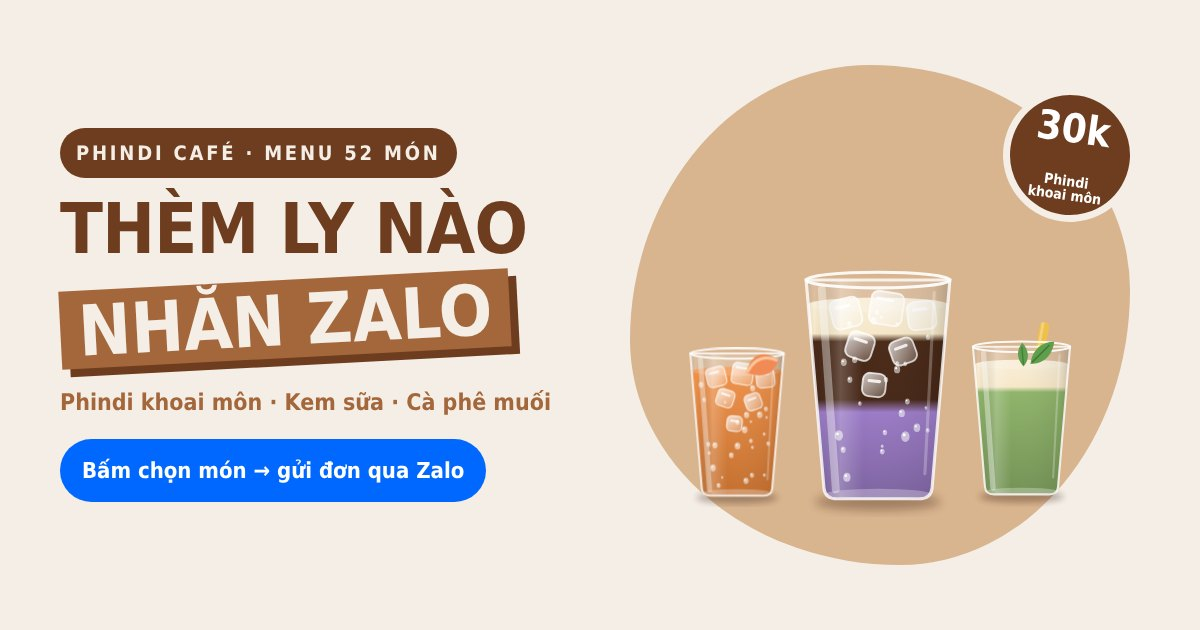
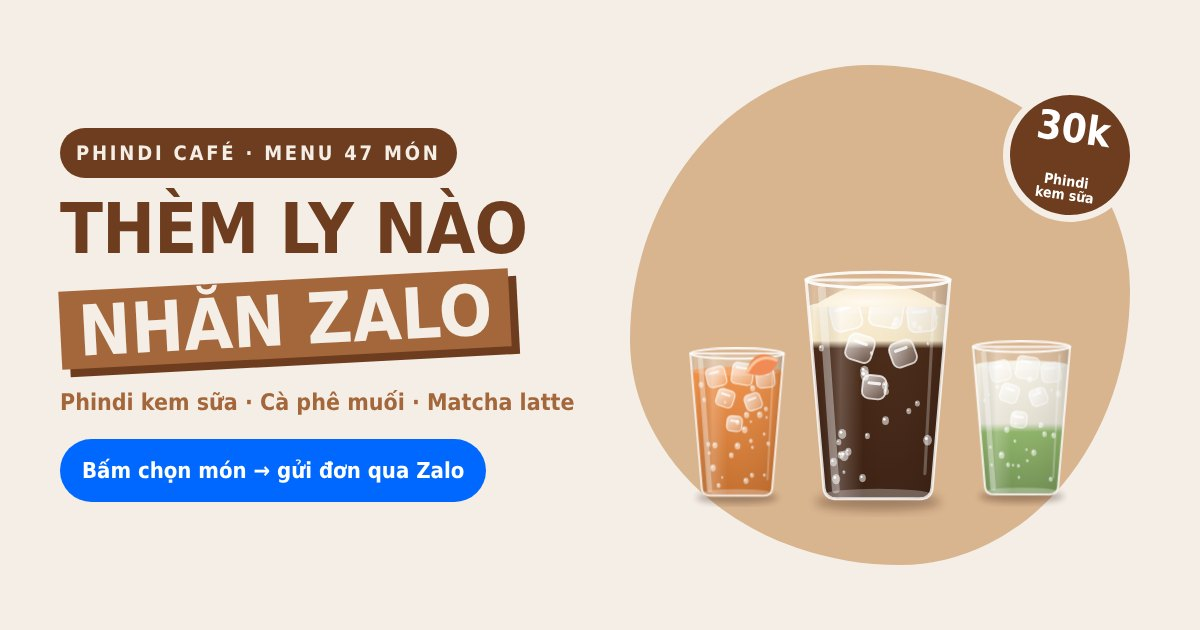
Phindi: bỏ 6 món, thêm Matcha latte, ghi chú sinh tố bơ theo mùa, kết nối Zalo 0393315295
Claude-Session: https://claude.ai/code/session_01U4UHKD9A2E5CzojSNta4Zq

diff --git a/demo/phindi-25b4dd/index.html b/demo/phindi-25b4dd/index.html
@@ -1,15 +1,16 @@
 <!doctype html>
+<!-- Mẫu "Cafe" – Tích Xanh. Không sửa trực tiếp: dựng bằng build_cafe.py + file cấu hình quán. -->
 <html lang="vi">
 <head>
 <meta charset="utf-8">
 <meta name="viewport" content="width=device-width, initial-scale=1, viewport-fit=cover">
 <title>Phindi Café – Menu & đặt món qua Zalo</title>
-<meta name="description" content="52 món cà phê phin, trà, trà sữa, sinh tố, đá xay. Bấm chọn món, gửi cả đơn qua Zalo trong 30 giây.">
+<meta name="description" content="47 món cà phê phin, trà, trà sữa, sinh tố, đá xay. Bấm chọn món, gửi cả đơn qua Zalo trong 30 giây.">
 <meta name="robots" content="noindex, nofollow">
 <meta name="theme-color" content="#6e3d1f">
 <meta property="og:type" content="website">
 <meta property="og:title" content="Phindi Café – Menu & đặt món qua Zalo">
-<meta property="og:description" content="Phindi khoai môn, kem sữa, cà phê muối và 49 món khác. Chọn món, gửi Zalo, ghé lấy liền.">
+<meta property="og:description" content="Phindi kem sữa, cà phê muối, matcha latte và 44 món khác. Chọn món, gửi Zalo, ghé lấy liền.">
 <meta property="og:image" content="https://tichxanh.github.io/demo/phindi-25b4dd/og.jpg">
 <meta property="og:image:width" content="1200">
 <meta property="og:image:height" content="630">
@@ -327,7 +328,7 @@ footer .logo small{color:#c9ab8e}
   <symbol id="leaf" viewBox="0 0 40 40"><path d="M6 34C8 16 20 6 36 6 34 22 24 34 6 34z" fill="#5f9e4c"/><path d="M8 32 30 10" stroke="#3f7a35" stroke-width="2"/></symbol>
 </svg>
 
-<div class="demobar"><div class="wrap">Bản xem thử gửi quán Phindi duyệt. <a href="https://tichxanh.github.io/" target="_blank" rel="noopener">Thiết kế bởi Tích Xanh →</a></div></div>
+<div class="demobar"><div class="wrap">Bản chạy thử: đặt món đã kết nối Zalo của quán. <a href="https://tichxanh.github.io/" target="_blank" rel="noopener">Thiết kế bởi Tích Xanh →</a></div></div>
 
 <header class="nav" id="nav">
   <div class="wrap nav-in">
@@ -342,7 +343,7 @@ footer .logo small{color:#c9ab8e}
   <div class="wrap">
     <div class="hero-copy">
       <h1><span class="stk">Good mood</span><span class="l1">Thèm ly nào</span><span class="box">nhắn Zalo</span><span class="sm">Phindi pha liền tay</span></h1>
-      <p class="hero-lead"><b>52 món</b> cà phê phin, trà, trà sữa, sinh tố, đá xay. Bấm <b>+</b> chọn món, gửi cả đơn qua Zalo <b>trong 30 giây</b>.</p>
+      <p class="hero-lead"><b>47 món</b> cà phê phin, trà, trà sữa, sinh tố, đá xay. Bấm <b>+</b> chọn món, gửi cả đơn qua Zalo <b>trong 30 giây</b>.</p>
       <div class="hero-ctas">
         <a class="btn btn-p" href="#menu">Xem menu &amp; chọn món</a>
         <button class="btn btn-o" type="button" data-ch="zalo"><span class="zl">Zalo</span>Nhắn quán ngay</button>
@@ -356,7 +357,7 @@ footer .logo small{color:#c9ab8e}
       <svg class="bean" style="left:10%;top:18%;transform:rotate(-30deg)"><use href="#bean"/></svg>
       <svg class="bean" style="left:26%;top:6%;width:24px;transform:rotate(40deg)"><use href="#bean"/></svg>
       <svg class="bean" style="right:24%;bottom:6%;width:28px;transform:rotate(70deg)"><use href="#bean"/></svg>
-      <span class="price"><b>30k</b><small>Phindi<br>khoai môn</small></span>
+      <span class="price"><b>30k</b><small>Phindi<br>kem sữa</small></span>
     </div>
   </div>
 </section>
@@ -438,7 +439,7 @@ footer .logo small{color:#c9ab8e}
 <div class="dlg" id="msgDlg" hidden>
   <div class="card-s" role="dialog" aria-modal="true" aria-labelledby="mTitle">
     <h3 id="mTitle">Tin nhắn gửi quán</h3>
-    <p id="mSub">Bản xem thử: khi quán duyệt, nút này mở thẳng Zalo của Phindi với nội dung dưới đây.</p>
+    <p id="mSub">Bản xem thử: khi quán duyệt, nút này mở thẳng Zalo của quán với nội dung dưới đây.</p>
     <div class="msgbox" id="msgTxt" style="width:100%;text-align:left"></div>
     <button class="btn btn-p" type="button" id="mCopy">Chép tin nhắn</button>
     <button class="btn btn-o" type="button" data-close>Đóng</button>
@@ -458,13 +459,87 @@ footer .logo small{color:#c9ab8e}
 <script src="https://cdnjs.cloudflare.com/ajax/libs/qrcodejs/1.0.0/qrcode.min.js"></script>
 <script>
 (() => {
-/* ===== Cấu hình — điền khi quán duyệt =====
-   Hotline Zalo in trên menu: 0393 315 295 → zalo: 'https://zalo.me/0393315295'
-   PHOTOS: ảnh thật của quán, đặt file vào thư mục img/ rồi ghi 'Tên món': 'img/ten-file.jpg' */
-const CONTACT = { zalo: '' };
+/* ===== CẤU HÌNH QUÁN – mẫu "Cafe" (Tích Xanh) =====
+   SHOP: tên quán trong tin nhắn Zalo. CONTACT.zalo: 'https://zalo.me/<số>' (để trống = chế độ xem thử, không gửi tới số thật).
+   PHOTOS: ảnh thật của quán, 'Tên món': 'img/ten-file.jpg' (không dùng ảnh mạng của quán khác).
+   Ly vẽ: {L:[[màu,tỉ lệ],...] từ đáy lên, f: màu kem/bọt, dome:1 kem chóp, ice:1 đá, pearl:1 trân châu,
+           hot:1 khói, straw:'#màu' ống hút, g:'lemon'|'peach'|'mint'|'bean' trang trí} */
+const SHOP = 'Phindi';
+const STORE_KEY = 'phindi-order';
+const CONTACT = { zalo: 'https://zalo.me/0393315295' }; // Hotline Zalo in trên menu: 0393 315 295
 const PHOTOS = {
-  // 'Phindi khoai môn': 'img/phindi-khoai-mon.jpg',
+  // 'Phindi kem sữa': 'img/phindi-kem-sua.jpg',
 };
+const HERO = ['Phindi kem sữa', 'Trà đào cam sả', 'Matcha latte'];   // [ly giữa, trái, phải] – tên đúng như trong CATS
+const CTA_CUPS = ['Trà chanh', 'Cà phê muối', 'Trà sữa socola'];
+const RIBBON = ['Phindi kem sữa','Cà phê muối','Matcha latte','Bạc xỉu','Trà đào cam sả','Trà sữa','Sinh tố bơ','Matcha đá xay'];
+const BEST = [ // 4 món bán chạy: [tên món, nhãn, mô tả ngắn]
+  ['Phindi kem sữa', 'Món tên quán', 'Lớp kem sữa béo mịn phủ trên ly phin đá.'],
+  ['Cà phê muối', 'Đậm vị', 'Kem muối mằn mặn, cà phê thơm đậm.'],
+  ['Trà đào cam sả', 'Mát lạnh', 'Trà đào thơm cam sả, uống nóng hoặc đá.'],
+  ['Matcha latte', 'Món mới', 'Matcha xanh thơm hòa cùng sữa béo, uống đá mát lạnh.']];
+/* MENU: C = bảng màu; CATS = nhóm {id, name, items:[[tên, giá (nghìn), ly, ghi chú]], topping?:[[tên, giá]]}
+   (các trường b, bc, card, n, note của nhóm là tùy chọn, mẫu Cafe không dùng) */
+const C = {coffee:'#4a2a18', coffeeL:'#8a5634', milk:'#f2e6d4', cream:'#f6e7c8', taro:'#9b7bc6', taroL:'#c9b3e6', blue:'#7b5aa6', peach:'#f4a261', lemon:'#f3d36b', mango:'#f7b733', avo:'#b5c96b', soursop:'#eef1d8', yog:'#f7f3ea', orange:'#f7941d', carrot:'#f26b21', passion:'#f2c14e', pine:'#f7d038', guava:'#f6a6a0', matcha:'#8fb46a', choco:'#6b3a22'};
+const CATS = [
+  {id:'phin', n:'01', name:'Cà phê phin', note:'Phin truyền thống pha tay, đậm đà kiểu Việt.', b:'#8f5236', bc:'#fbefd9', card:'rgba(251,239,217,.10)', card2:'rgba(251,239,217,.18)', items:[
+    ['Phindi kem sữa',30,{L:[[C.coffee,.6]],f:C.cream,ice:1,dome:1},'Món tên quán'],
+    ['Cà phê muối',25,{L:[[C.coffee,.55]],f:'#efe0c2',ice:1}],
+    ['Sữa chua cà phê',35,{L:[[C.yog,.45],[C.coffee,.3]]}],
+    ['Bạc xỉu',25,{L:[[C.milk,.5],['#a87650',.25]],ice:1}],
+    ['Nâu phin',20,{L:[[C.coffeeL,.75]],ice:1}],
+    ['Đen phin',18,{L:[['#2b1a10',.75]],ice:1}],
+    ['Nâu xóc',22,{L:[['#9a6440',.6]],f:'#d9b48c'}],
+    ['Đen xóc',20,{L:[['#3a2416',.6]],f:'#8a5e3c'}]]},
+  {id:'may', n:'02', name:'Cà phê máy', note:'Espresso xay mới, uống liền hay mang đi đều hợp.', b:'#5a3220', bc:'#fbefd9', card:'rgba(251,239,217,.09)', card2:'rgba(251,239,217,.16)', items:[
+    ['Nâu xay',20,{L:[[C.coffeeL,.75]],ice:1}],
+    ['Đen xay',18,{L:[['#2b1a10',.75]],ice:1}],
+    ['Nâu xay xóc',22,{L:[['#9a6440',.6]],f:'#d9b48c'}],
+    ['Đen xay xóc',20,{L:[['#3a2416',.6]],f:'#8a5e3c'}],
+    ['Americano',25,{L:[['#3d2414',.75]],ice:1}]]},
+  {id:'tra', n:'03', name:'Trà', note:'Trà trái cây mát lạnh, có món uống nóng cho ngày se lạnh.', b:'#c4572f', bc:'#fff3e4', card:'rgba(255,243,228,.13)', card2:'rgba(255,243,228,.22)', items:[
+    ['Trà gừng mật ong','25',{L:[['#d9a441',.7]],hot:1},'Nóng'],
+    ['Trà tắc xí muội',25,{L:[['#e8a33a',.72]],ice:1,g:'lemon'}],
+    ['Trà đào cam sả',30,{L:[['#f08a3c',.72]],ice:1,g:'peach'},'Nóng / đá'],
+    ['Trà đào',25,{L:[[C.peach,.72]],ice:1,g:'peach'},'Nóng / đá'],
+    ['Trà chanh',25,{L:[[C.lemon,.72]],ice:1,g:'lemon'},'Nóng / đá'],
+    ['Trà chanh việt quất',25,{L:[[C.blue,.35],[C.lemon,.38]],ice:1,g:'lemon'}]]},
+  {id:'trasua', n:'04', name:'Trà sữa', note:'Trà sữa nhà làm, thêm trân châu hay kem tùy thích.', b:'#eaa8b6', bc:'#24402f', card:'rgba(36,64,47,.08)', card2:'rgba(36,64,47,.14)', items:[
+    ['Trà sữa truyền thống',25,{L:[['#c89f73',.78]],pearl:1,straw:'#2f4a3a'}],
+    ['Trà sữa việt quất',25,{L:[['#9d7fc4',.78]],pearl:1,straw:'#2f4a3a'}],
+    ['Trà sữa socola',25,{L:[['#7a4a32',.78]],pearl:1,straw:'#2f4a3a'}],
+    ['Trà sữa matcha',25,{L:[[C.matcha,.78]],pearl:1,straw:'#2f4a3a'}]], topping:[['Trân châu trắng',5],['Kem muối',5],['Kem sữa',5]]},
+  {id:'sinhto', n:'05', name:'Sinh tố', note:'Trái cây xay mịn, sánh và thơm.', b:'#efc14a', bc:'#4a2a18', card:'rgba(74,42,24,.08)', card2:'rgba(74,42,24,.14)', items:[
+    ['Sinh tố mãng cầu',30,{L:[[C.soursop,.8]],straw:'#8f5236'}],
+    ['Sinh tố bơ',30,{L:[[C.avo,.8]],straw:'#8f5236'},'(theo mùa)'],
+    ['Sinh tố bơ mãng cầu',35,{L:[[C.avo,.4],[C.soursop,.4]],straw:'#8f5236'},'(theo mùa)'],
+    ['Sinh tố xoài',30,{L:[[C.mango,.8]],straw:'#8f5236'}],
+    ['Sinh tố xoài dứa',35,{L:[[C.mango,.4],[C.pine,.4]],straw:'#8f5236'}],
+    ['Sinh tố việt quất',30,{L:[[C.blue,.8]],straw:'#8f5236'}]]},
+  {id:'suachua', n:'06', name:'Sữa chua', note:'Sữa chua dẻo chua nhẹ, trộn trái cây.', b:'#f3ead9', bc:'#4a2a18', card:'rgba(74,42,24,.06)', card2:'rgba(74,42,24,.11)', items:[
+    ['Sữa chua việt quất',30,{L:[[C.yog,.42],[C.blue,.36]]}],
+    ['Sữa chua chanh dây',30,{L:[[C.yog,.42],[C.passion,.36]]}],
+    ['Sữa chua đánh đá',27,{L:[[C.yog,.8]],ice:1}]]},
+  {id:'nuocep', n:'07', name:'Nước ép', note:'Ép tươi tại quán, chọn thêm sữa hoặc đường.', b:'#e07b2c', bc:'#fff3e4', card:'rgba(255,243,228,.13)', card2:'rgba(255,243,228,.22)', items:[
+    ['Ép cam',35,{L:[[C.orange,.8]],g:'lemon'}],
+    ['Ép cam cà rốt',35,{L:[[C.carrot,.4],[C.orange,.4]]}],
+    ['Ép cà rốt',25,{L:[['#f47c2c',.8]]},'Sữa / đường'],
+    ['Ép chanh leo',25,{L:[[C.passion,.8]],g:'mint'},'Sữa / đường'],
+    ['Ép chanh',25,{L:[['#f4e27a',.8]],g:'lemon'},'Nóng / đá'],
+    ['Ép dứa',25,{L:[[C.pine,.8]]}],
+    ['Ép ổi',25,{L:[[C.guava,.8]]}]]},
+  {id:'daxay', n:'08', name:'Đá xay', note:'Mát lạnh, phủ kem, hợp trời nắng.', b:'#4f8a3c', bc:'#fbefd9', card:'rgba(251,239,217,.12)', card2:'rgba(251,239,217,.2)', items:[
+    ['Cà phê đá xay',30,{L:[['#8a5a3c',.62]],f:C.cream,straw:'#efc14a',g:'bean'}],
+    ['Chanh leo tuyết',28,{L:[['#f2d46b',.62]],f:'#fffbe8',straw:'#efc14a'}],
+    ['Chanh tuyết',28,{L:[['#eef2b8',.62]],f:'#ffffff',straw:'#efc14a',g:'lemon'}],
+    ['Matcha đá xay',30,{L:[[C.matcha,.62]],f:C.cream,straw:'#efc14a',g:'mint'}]]},
+  {id:'khac', n:'09', name:'Món khác', note:'Cacao, sữa, matcha latte và nước giải khát.', b:'#2f4a3a', bc:'#fbefd9', card:'rgba(251,239,217,.08)', card2:'rgba(251,239,217,.15)', items:[
+    ['Cacao',30,{L:[[C.choco,.75]],f:'#d9b48c'},'Nóng / đá'],
+    ['Sữa',25,{L:[['#f6f1e6',.78]]},'Nóng / đá'],
+    ['Bò húc',19,{L:[['#f2c230',.78]],ice:1}],
+    ['Matcha latte',30,{L:[[C.matcha,.36],['#f4efe2',.36]],ice:1}]]}
+];
+
 const $ = (s, r = document) => r.querySelector(s);
 const $$ = (s, r = document) => [...r.querySelectorAll(s)];
 const reduce = matchMedia('(prefers-reduced-motion: reduce)').matches;
@@ -544,70 +619,6 @@ function cup(o) {
 }
 const media = (m) => PHOTOS[m.name] ? `<img src="${esc(PHOTOS[m.name])}" alt="${esc(m.name)}" loading="lazy">` + cup(m.cupo) : cup(m.cupo);
 
-const C = {coffee:'#4a2a18', coffeeL:'#8a5634', milk:'#f2e6d4', cream:'#f6e7c8', taro:'#9b7bc6', taroL:'#c9b3e6', blue:'#7b5aa6', peach:'#f4a261', lemon:'#f3d36b', mango:'#f7b733', avo:'#b5c96b', soursop:'#eef1d8', yog:'#f7f3ea', orange:'#f7941d', carrot:'#f26b21', passion:'#f2c14e', pine:'#f7d038', guava:'#f6a6a0', matcha:'#8fb46a', choco:'#6b3a22'};
-const CATS = [
-  {id:'phin', n:'01', name:'Cà phê phin', note:'Phin truyền thống pha tay, đậm đà kiểu Việt.', b:'#8f5236', bc:'#fbefd9', card:'rgba(251,239,217,.10)', card2:'rgba(251,239,217,.18)', items:[
-    ['Phindi khoai môn',30,{L:[[C.taro,.4],[C.coffee,.32]],f:C.cream,ice:1},'Món tên quán'],
-    ['Phindi kem sữa',30,{L:[[C.coffee,.6]],f:C.cream,ice:1,dome:1},'Món tên quán'],
-    ['Cà phê muối',25,{L:[[C.coffee,.55]],f:'#efe0c2',ice:1}],
-    ['Sữa chua cà phê',35,{L:[[C.yog,.45],[C.coffee,.3]]}],
-    ['Bạc xỉu',25,{L:[[C.milk,.5],['#a87650',.25]],ice:1}],
-    ['Nâu phin',20,{L:[[C.coffeeL,.75]],ice:1}],
-    ['Đen phin',18,{L:[['#2b1a10',.75]],ice:1}],
-    ['Nâu xóc',22,{L:[['#9a6440',.6]],f:'#d9b48c'}],
-    ['Đen xóc',20,{L:[['#3a2416',.6]],f:'#8a5e3c'}]]},
-  {id:'may', n:'02', name:'Cà phê máy', note:'Espresso xay mới, uống liền hay mang đi đều hợp.', b:'#5a3220', bc:'#fbefd9', card:'rgba(251,239,217,.09)', card2:'rgba(251,239,217,.16)', items:[
-    ['Nâu xay',20,{L:[[C.coffeeL,.75]],ice:1}],
-    ['Đen xay',18,{L:[['#2b1a10',.75]],ice:1}],
-    ['Nâu xay xóc',22,{L:[['#9a6440',.6]],f:'#d9b48c'}],
-    ['Đen xay xóc',20,{L:[['#3a2416',.6]],f:'#8a5e3c'}],
-    ['Americano',25,{L:[['#3d2414',.75]],ice:1}]]},
-  {id:'tra', n:'03', name:'Trà', note:'Trà trái cây mát lạnh, có món uống nóng cho ngày se lạnh.', b:'#c4572f', bc:'#fff3e4', card:'rgba(255,243,228,.13)', card2:'rgba(255,243,228,.22)', items:[
-    ['Trà gừng mật ong','25',{L:[['#d9a441',.7]],hot:1},'Nóng'],
-    ['Trà tắc xí muội',25,{L:[['#e8a33a',.72]],ice:1,g:'lemon'}],
-    ['Trà đào cam sả',30,{L:[['#f08a3c',.72]],ice:1,g:'peach'},'Nóng / đá'],
-    ['Trà đào',25,{L:[[C.peach,.72]],ice:1,g:'peach'},'Nóng / đá'],
-    ['Trà chanh',25,{L:[[C.lemon,.72]],ice:1,g:'lemon'},'Nóng / đá'],
-    ['Trà chanh việt quất',25,{L:[[C.blue,.35],[C.lemon,.38]],ice:1,g:'lemon'}]]},
-  {id:'trasua', n:'04', name:'Trà sữa', note:'Trà sữa nhà làm, thêm trân châu hay kem tùy thích.', b:'#eaa8b6', bc:'#24402f', card:'rgba(36,64,47,.08)', card2:'rgba(36,64,47,.14)', items:[
-    ['Trà sữa truyền thống',25,{L:[['#c89f73',.78]],pearl:1,straw:'#2f4a3a'}],
-    ['Trà sữa khoai môn',25,{L:[['#b9a0d8',.78]],pearl:1,straw:'#2f4a3a'}],
-    ['Trà sữa việt quất',25,{L:[['#9d7fc4',.78]],pearl:1,straw:'#2f4a3a'}],
-    ['Trà sữa socola',25,{L:[['#7a4a32',.78]],pearl:1,straw:'#2f4a3a'}],
-    ['Trà sữa matcha',25,{L:[[C.matcha,.78]],pearl:1,straw:'#2f4a3a'}]], topping:[['Trân châu trắng',5],['Kem muối',5],['Kem sữa',5]]},
-  {id:'sinhto', n:'05', name:'Sinh tố', note:'Trái cây xay mịn, sánh và thơm.', b:'#efc14a', bc:'#4a2a18', card:'rgba(74,42,24,.08)', card2:'rgba(74,42,24,.14)', items:[
-    ['Sinh tố mãng cầu',30,{L:[[C.soursop,.8]],straw:'#8f5236'}],
-    ['Sinh tố bơ',30,{L:[[C.avo,.8]],straw:'#8f5236'}],
-    ['Sinh tố bơ mãng cầu',35,{L:[[C.avo,.4],[C.soursop,.4]],straw:'#8f5236'}],
-    ['Sinh tố xoài',30,{L:[[C.mango,.8]],straw:'#8f5236'}],
-    ['Sinh tố xoài dứa',35,{L:[[C.mango,.4],[C.pine,.4]],straw:'#8f5236'}],
-    ['Sinh tố việt quất',30,{L:[[C.blue,.8]],straw:'#8f5236'}]]},
-  {id:'suachua', n:'06', name:'Sữa chua', note:'Sữa chua dẻo chua nhẹ, trộn trái cây.', b:'#f3ead9', bc:'#4a2a18', card:'rgba(74,42,24,.06)', card2:'rgba(74,42,24,.11)', items:[
-    ['Sữa chua khoai môn',30,{L:[[C.yog,.42],[C.taroL,.36]]}],
-    ['Sữa chua việt quất',30,{L:[[C.yog,.42],[C.blue,.36]]}],
-    ['Sữa chua chanh dây',30,{L:[[C.yog,.42],[C.passion,.36]]}],
-    ['Sữa chua đánh đá',27,{L:[[C.yog,.8]],ice:1}]]},
-  {id:'nuocep', n:'07', name:'Nước ép', note:'Ép tươi tại quán, chọn thêm sữa hoặc đường.', b:'#e07b2c', bc:'#fff3e4', card:'rgba(255,243,228,.13)', card2:'rgba(255,243,228,.22)', items:[
-    ['Ép cam',35,{L:[[C.orange,.8]],g:'lemon'}],
-    ['Ép cam cà rốt',35,{L:[[C.carrot,.4],[C.orange,.4]]}],
-    ['Ép cà rốt',25,{L:[['#f47c2c',.8]]},'Sữa / đường'],
-    ['Ép chanh leo',25,{L:[[C.passion,.8]],g:'mint'},'Sữa / đường'],
-    ['Ép chanh',25,{L:[['#f4e27a',.8]],g:'lemon'},'Nóng / đá'],
-    ['Ép dứa',25,{L:[[C.pine,.8]]}],
-    ['Ép ổi',25,{L:[[C.guava,.8]]}]]},
-  {id:'daxay', n:'08', name:'Đá xay', note:'Mát lạnh, phủ kem, hợp trời nắng.', b:'#4f8a3c', bc:'#fbefd9', card:'rgba(251,239,217,.12)', card2:'rgba(251,239,217,.2)', items:[
-    ['Cà phê đá xay',30,{L:[['#8a5a3c',.62]],f:C.cream,straw:'#efc14a',g:'bean'}],
-    ['Chanh leo tuyết',28,{L:[['#f2d46b',.62]],f:'#fffbe8',straw:'#efc14a'}],
-    ['Chanh tuyết',28,{L:[['#eef2b8',.62]],f:'#ffffff',straw:'#efc14a',g:'lemon'}],
-    ['Matcha đá xay',30,{L:[[C.matcha,.62]],f:C.cream,straw:'#efc14a',g:'mint'}]]},
-  {id:'khac', n:'09', name:'Món khác', note:'Cacao, sữa và nước giải khát.', b:'#2f4a3a', bc:'#fbefd9', card:'rgba(251,239,217,.08)', card2:'rgba(251,239,217,.15)', items:[
-    ['Cacao',30,{L:[[C.choco,.75]],f:'#d9b48c'},'Nóng / đá'],
-    ['Sữa',25,{L:[['#f6f1e6',.78]]},'Nóng / đá'],
-    ['Khoáng mặn',15,{L:[['#e3f1f3',.78]],ice:1}],
-    ['Khoáng chanh',25,{L:[['#eaf4c8',.78]],ice:1,g:'lemon'}],
-    ['Coca',15,{L:[['#3a1410',.78]],ice:1}],
-    ['Bò húc',19,{L:[['#f2c230',.78]],ice:1}]]}
-];
 const ALL = []; CATS.forEach(c => c.items.forEach(it => ALL.push({cat: c.id, name: it[0], price: +it[1], cupo: it[2], note: it[3] || ''})));
 const k = n => n + 'k';
 
@@ -615,18 +626,13 @@ const find = n => ALL.find(x => x.name === n);
 const C0 = n => cup(find(n).cupo);
 
 /* hero, ribbon, cta */
-$('#art0').innerHTML = media(find('Phindi khoai môn'));
-$('#art1').innerHTML = C0('Trà đào cam sả');
-$('#art2').innerHTML = C0('Matcha đá xay');
-$('#ctaCups').innerHTML = C0('Trà chanh') + C0('Phindi kem sữa') + C0('Trà sữa socola');
-$('#rt').innerHTML = (['Phindi khoai môn','Kem sữa','Cà phê muối','Bạc xỉu','Trà đào cam sả','Trà sữa','Sinh tố bơ','Matcha đá xay'].map(w => `<span>${w}</span><i></i>`).join('')).repeat(2);
+$('#art0').innerHTML = media(find(HERO[0]));
+$('#art1').innerHTML = C0(HERO[1]);
+$('#art2').innerHTML = C0(HERO[2]);
+$('#ctaCups').innerHTML = CTA_CUPS.map(C0).join('');
+$('#rt').innerHTML = (RIBBON.map(w => `<span>${w}</span><i></i>`).join('')).repeat(2);
 
 /* bestsellers */
-const BEST = [
-  ['Phindi khoai môn', 'Món tên quán', 'Khoai môn tím bùi béo trên nền cà phê phin đậm.'],
-  ['Phindi kem sữa', 'Món tên quán', 'Lớp kem sữa béo mịn phủ trên ly phin đá.'],
-  ['Cà phê muối', 'Đậm vị', 'Kem muối mằn mặn, cà phê thơm đậm.'],
-  ['Trà đào cam sả', 'Mát lạnh', 'Trà đào thơm cam sả, uống nóng hoặc đá.']];
 $('#best').innerHTML = BEST.map(([n, badge, d]) => { const m = find(n); return `
   <article class="prod rv"><div class="stage">${media(m)}<span class="badge">${esc(badge)}</span></div>
     <div class="body"><h3>${esc(m.name)}</h3><p>${esc(d)}</p>
@@ -653,8 +659,8 @@ $('#cats').addEventListener('click', e => { const b = e.target.closest('.cat'); 
 /* order */
 const order = new Map();
 let mode = 'Ghé quán lấy';
-try { const s = JSON.parse(localStorage.getItem('phindi-order') || '[]'); s.forEach(([n, q]) => find(n) && order.set(n, q)); } catch {}
-const save = () => { try { localStorage.setItem('phindi-order', JSON.stringify([...order])); } catch {} };
+try { const s = JSON.parse(localStorage.getItem(STORE_KEY) || '[]'); s.forEach(([n, q]) => find(n) && order.set(n, q)); } catch {}
+const save = () => { try { localStorage.setItem(STORE_KEY, JSON.stringify([...order])); } catch {} };
 const count = () => [...order.values()].reduce((a, b) => a + b, 0);
 const total = () => [...order].reduce((a, [n, q]) => a + find(n).price * q, 0);
 const obar = $('#obar'), fz = $('#fz');
@@ -691,7 +697,7 @@ $('#sendBar').onclick = () => open($('#orderDlg'));
 function compose() {
   const lines = [...order].map(([n, q]) => { const m = find(n); return `• ${q} ${n} – ${k(m.price * q)}`; });
   const wh = $('#wh').value.trim(), nt = $('#nt').value.trim();
-  return ['Chào Phindi, mình đặt món:', ...lines, `Tạm tính: ${k(total())}`, `${mode}${wh ? ': ' + wh : ''}`, nt ? `Ghi chú: ${nt}` : ''].filter(Boolean).join('\n');
+  return [`Chào ${SHOP}, mình đặt món:`, ...lines, `Tạm tính: ${k(total())}`, `${mode}${wh ? ': ' + wh : ''}`, nt ? `Ghi chú: ${nt}` : ''].filter(Boolean).join('\n');
 }
 async function copyText(t) {
   try { await navigator.clipboard.writeText(t); return true; } catch {}
@@ -703,7 +709,7 @@ $('#mCopy').onclick = async () => say(await copyText($('#msgTxt').textContent) ?
 $('#send').onclick = async () => {
   if (!count()) { say('Bấm + ở menu để chọn món trước nhé'); return; }
   const txt = compose(); const ok = await copyText(txt);
-  if (!CONTACT.zalo) { preview(txt, 'Bản xem thử: khi quán duyệt, nút này mở thẳng Zalo của Phindi. Tin nhắn dưới đây ' + (ok ? 'đã được chép sẵn.' : 'sẽ được chép sẵn.')); return; }
+  if (!CONTACT.zalo) { preview(txt, 'Bản xem thử: khi quán duyệt, nút này mở thẳng Zalo của ' + SHOP + '. Tin nhắn dưới đây ' + (ok ? 'đã được chép sẵn.' : 'sẽ được chép sẵn.')); return; }
   goZalo(); say(ok ? 'Đã chép đơn – dán vào chat Zalo rồi gửi nha!' : 'Mở Zalo… nếu chưa có nội dung, quay lại chép tin nhắn');
   if (!ok) preview(txt, 'Chép tin nhắn này rồi dán vào chat Zalo với quán.');
 };
@@ -711,7 +717,7 @@ document.addEventListener('click', e => {
   const b = e.target.closest('[data-ch]'); if (!b) return;
   if (b.dataset.ch === 'qr') { const box = $('#qrBox'); box.innerHTML = ''; if (CONTACT.zalo && window.QRCode) new QRCode(box, {text: CONTACT.zalo, width: 196, height: 196, colorDark: '#3a2112', colorLight: '#ffffff', correctLevel: QRCode.CorrectLevel.M}); else box.innerHTML = '<div class="qr-ph">Mã QR Zalo của quán hiện ở đây khi quán duyệt.</div>'; open($('#qrDlg')); return; }
   if (count()) { open($('#orderDlg')); return; }
-  if (CONTACT.zalo) goZalo(); else say('Bản xem thử: khi quán duyệt, nút này mở Zalo của Phindi. Thử bấm + chọn món nhé!');
+  if (CONTACT.zalo) goZalo(); else say('Bản xem thử: khi quán duyệt, nút này mở Zalo của ' + SHOP + '. Thử bấm + chọn món nhé!');
 });
 
 /* header + floating */
